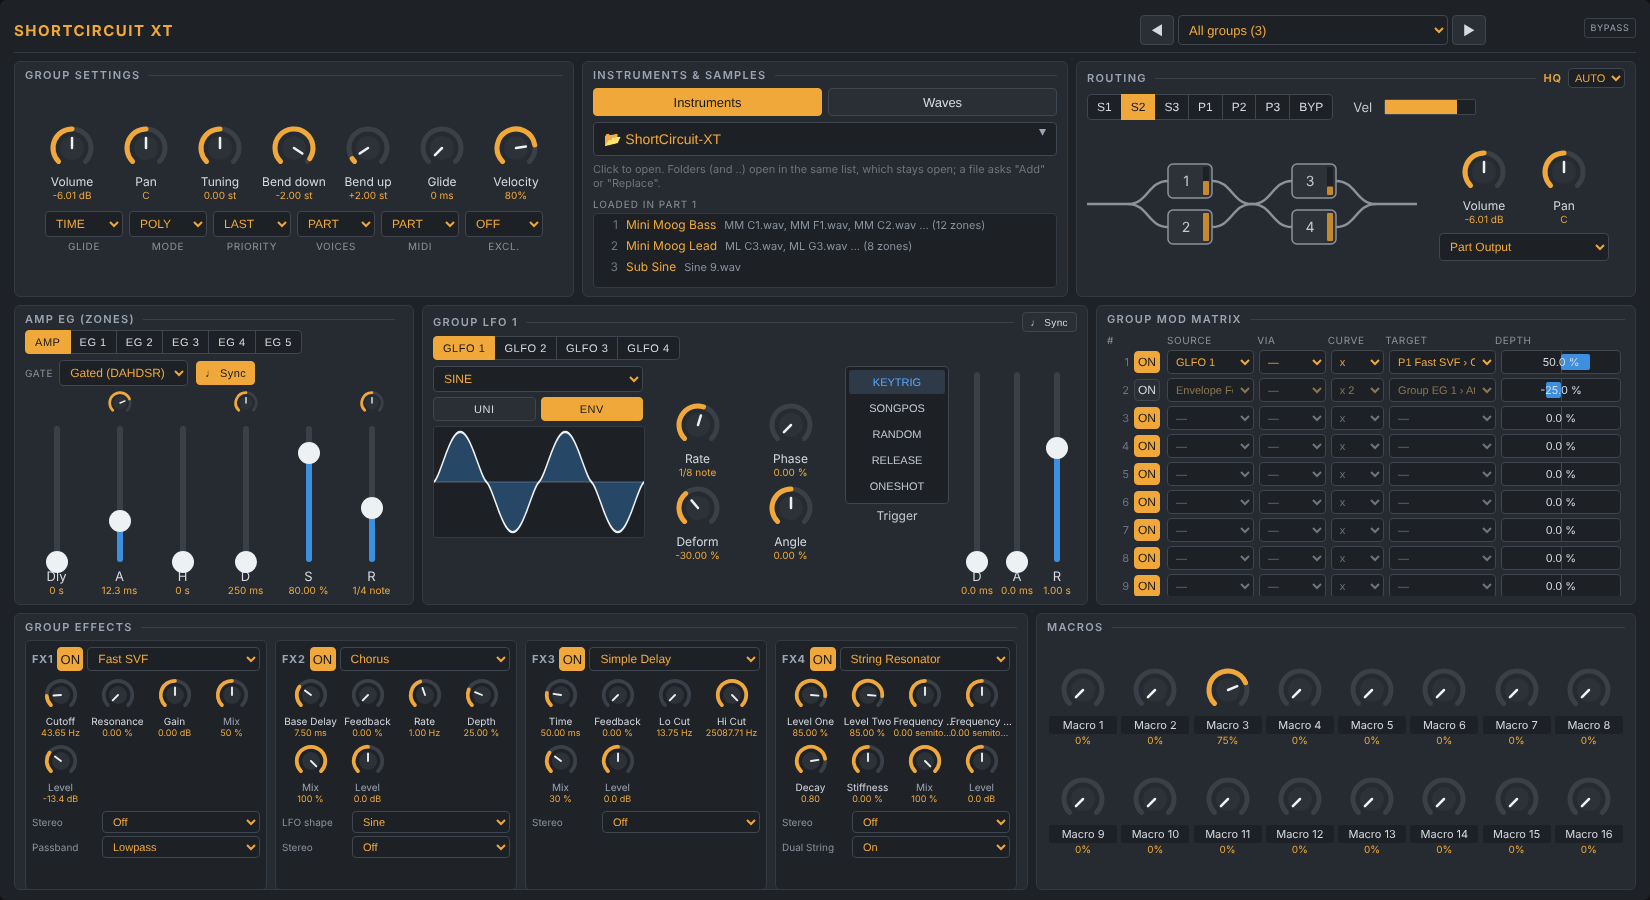
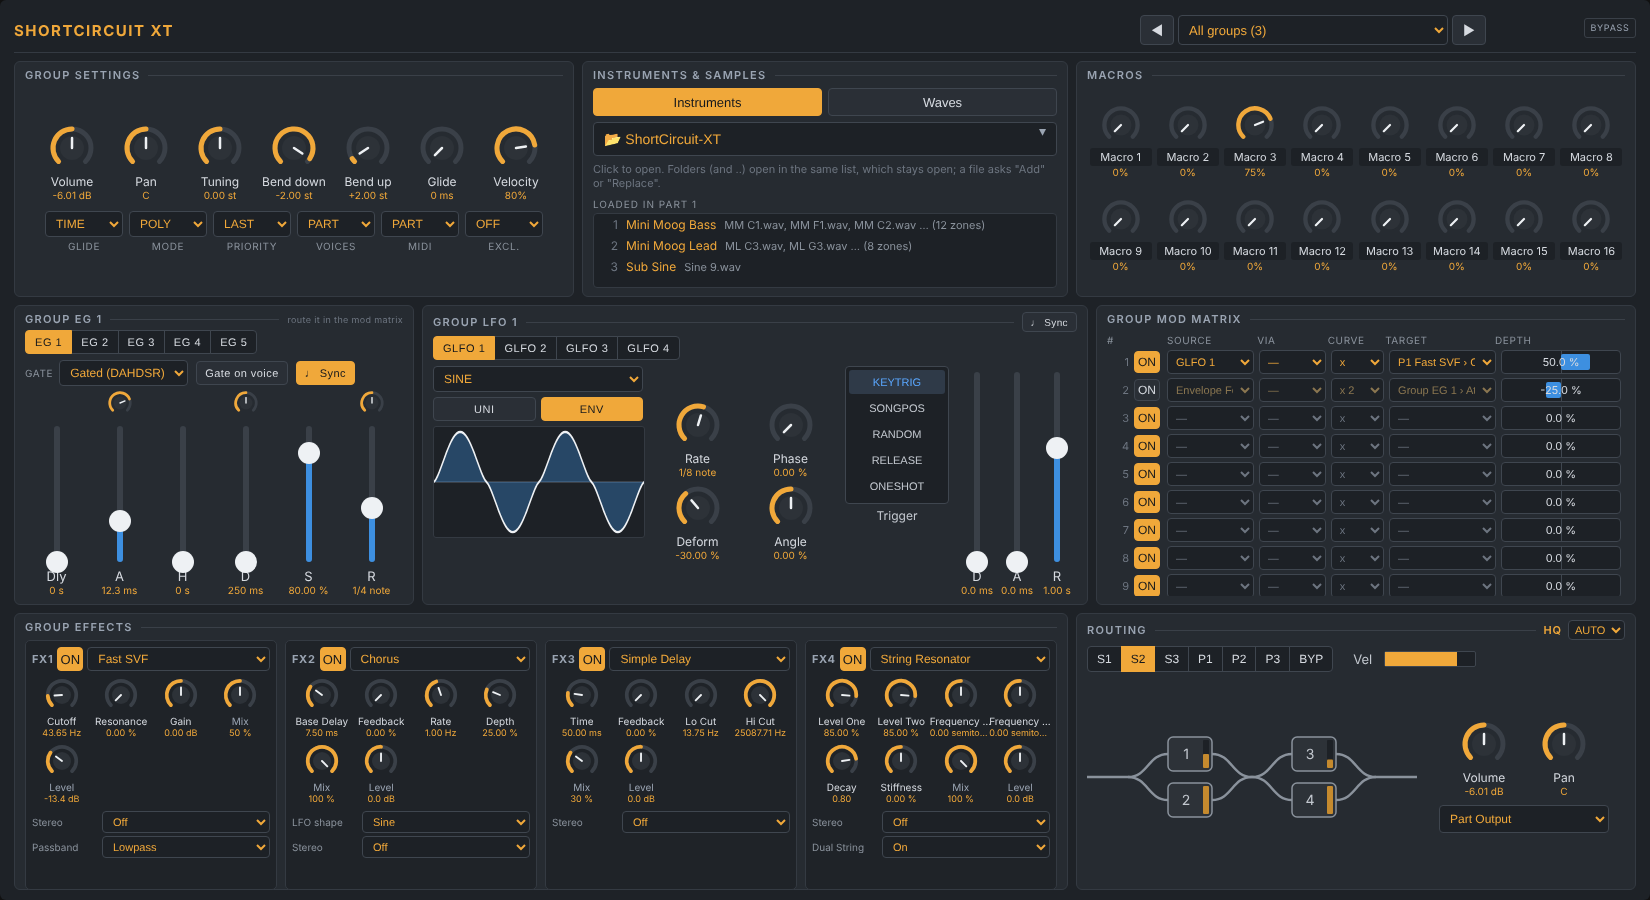
LV2 panel: group EG 1-5 only (no AMP tab), macros top right, routing bottom right
Claude-Session: https://claude.ai/code/session_01A7W9XgUHaLYGz3s89EjAsW

diff --git a/mod/modgui/javascript-shortcircuit-xt.js b/mod/modgui/javascript-shortcircuit-xt.js
@@ -418,25 +418,19 @@ function (event, funcs) {
     function buildEG(d, parent) {
         var card = el('div', 'scx-card scx-eg', parent);
         var h4 = el('h4', '', card, '');
-        d.egTitle = el('span', '', h4, 'Amp EG (zones)');
-        // AMP = the zones' amp envelope (what you hear); EG 1..5 = the group's envelopes, which
-        // only act through a mod matrix row
-        var tabs = makeSegment(d, card, {uri: U('eg_index'), cls: 'scx-tabs', def: -1,
-            options: [[-1, 'AMP', 'The amp envelope of every zone in the edited group(s)']].concat(
-                range(0, 4, function (i) { return 'EG ' + (i + 1); }).map(function (o) { return [o[0], o[1], 'Group EG: a modulation source, use it in the mod matrix']; }))});
-        tabs.onSet = function (v) {
-            d.egTitle.textContent = v < 0 ? 'Amp EG (zones)' : 'Group EG ' + (v + 1);
-            d.egHint.textContent = v < 0 ? '' : 'modulation source: route it in the mod matrix';
-            if (d.egGateAny) d.egGateAny.el.hidden = v < 0;
-        };
+        d.egTitle = el('span', '', h4, 'Group EG 1');
+        // group EGs 1..5, as in Shortcircuit's group view: modulation sources, heard through
+        // a mod matrix row (e.g. GEG1 -> Output Amplitude)
+        var tabs = makeSegment(d, card, {uri: U('eg_index'), cls: 'scx-tabs', def: 0,
+            options: range(0, 4, function (i) { return 'EG ' + (i + 1); }).map(function (o) { return [o[0], o[1], 'Group EG ' + (o[0] + 1) + ': route it in the mod matrix to hear it']; })});
+        tabs.onSet = function (v) { d.egTitle.textContent = 'Group EG ' + (Math.max(0, v) + 1); };
         bind(d, tabs.uri, tabs);
-        d.egHint = el('span', 'scx-eg-hint', h4, '');
+        d.egHint = el('span', 'scx-eg-hint', h4, 'route it in the mod matrix');
         var opts = el('div', 'scx-eg-opts', card);
         var gate = makeSelect(d, opts, {uri: U('eg_gate_mode'), label: 'Gate', min: 0, max: 2, def: 0, options: [[0, 'Gated (DAHDSR)'], [1, 'No sustain'], [2, 'Oneshot']]});
         bind(d, gate.uri, gate);
         hook(d, gate.uri, function (v) { if (d.egS) d.egS.lblEl.textContent = v >= 1 ? 'B' : 'S'; });
         d.egGateAny = bind(d, U('eg_gate_any'), makeToggle(d, opts, {uri: U('eg_gate_any'), label: 'Gate on voice', title: 'Gate on voice sounding'}));
-        d.egGateAny.el.hidden = true; // group EGs only
         bind(d, U('eg_temposync'), makeToggle(d, opts, {uri: U('eg_temposync'), label: '\u2669 Sync', title: 'Tempo sync the times'}));
         var sl = el('div', 'scx-sliders', card);
         var shapes = {1: 'eg_attack_shape', 3: 'eg_decay_shape', 5: 'eg_release_shape'};
@@ -903,9 +897,9 @@ function (event, funcs) {
         [prev, next].forEach(function (b) { b.addEventListener('mousedown', function (e) { e.stopPropagation(); }); });
 
         // wide layout, three rows:
-        //   group settings | browser | routing
+        //   group settings | browser | macros
         //   envelopes | group LFO | mod matrix
-        //   group effects | macros
+        //   group effects | routing
         var row1 = el('div', 'scx-row scx-row1', root);
         var row2 = el('div', 'scx-row scx-mods', root);
         var row3 = el('div', 'scx-row scx-row3', root);
@@ -950,16 +944,16 @@ function (event, funcs) {
         el('div', 'scx-empty', d.loadedBox, 'Nothing loaded in part 1 yet.');
         d.entries = [];
         fillBrowser(d);
-        buildRouting(d, row1);
+        // macros (control ports p0..p15)
+        var mc = el('div', 'scx-card scx-macros', row1);
 
         buildEG(d, row2);
         buildLFO(d, row2);
         buildMatrix(d, row2);
 
         buildFx(d, row3);
+        buildRouting(d, row3);
 
-        // macros (control ports p0..p15)
-        var mc = el('div', 'scx-card scx-macros', row3);
         el('h4', '', mc, 'Macros');
         var grid = el('div', 'scx-grid', mc);
         for (var m = 0; m < 16; m++) {

diff --git a/mod/modgui/stylesheet-shortcircuit-xt.css b/mod/modgui/stylesheet-shortcircuit-xt.css
@@ -235,10 +235,11 @@
 .scxt .scx-matrix { width: 600px; flex: none; display: flex; flex-direction: column; }
 .scxt .scx-fx { flex: 1; min-width: 0; }
 .scxt .scx-fx-slot { min-height: 0; height: 236px; }
-.scxt .scx-macros { width: 600px; flex: none; display: flex; flex-direction: column; }
+.scxt .scx-macros { width: 560px; flex: none; display: flex; flex-direction: column; }
 .scxt .scx-macros .scx-grid { flex: 1; align-content: space-evenly; }
-.scxt .scx-macros .scx-knob { width: 72px; }
-.scxt .scx-macros .scx-knob .scx-lbl { width: 68px; max-width: 68px; font-size: 11px; }
+.scxt .scx-macros .scx-knob { width: 66px; }
+.scxt .scx-macros .scx-knob svg { width: 42px; height: 42px; }
+.scxt .scx-macros .scx-knob .scx-lbl { width: 62px; max-width: 62px; font-size: 11px; }
 .scxt .scx-mods .scx-eg { width: 400px; }
 .scxt .scx-mods .scx-matrix { width: 540px; }
 .scxt .scx-mods .scx-lfo-left { width: 210px; }

diff --git a/src/clients/lv2/scxt_bridge.cpp b/src/clients/lv2/scxt_bridge.cpp
@@ -194,7 +194,7 @@ struct Bridge::Impl
     int group{0};          // the group shown (with allGroups: the lead, group 1)
     bool allGroups{true};  // edits go to every group of part 1 (the panel's "All groups")
     int loadMode{0};
-    int egIndex{-1}, lfoIndex{0}; // egIndex -1: the zones' amp EG
+    int egIndex{0}, lfoIndex{0}; // group EG 1..5 (-1, the zones' amp EG, is no longer offered)
     // the EG as last edited here (see rowShadow): a gate mode change sends the whole EG
     AdsrStorage egShadow{};
     int egShadowGroup{-1}, egShadowIndex{-1};
@@ -938,8 +938,8 @@ struct Bridge::Impl
             loadMode = iv;
             return;
         case P_EG_INDEX:
-            // -1: the amp envelope (AEG) of the zones; 0..4: group EG 1..5
-            egIndex = std::clamp(iv, -1, (int)scxt::egsPerGroup - 1);
+            // 0..4: group EG 1..5 (as in Shortcircuit's group view)
+            egIndex = std::clamp(iv, 0, (int)scxt::egsPerGroup - 1);
             wantAll = true;
             return;
         case P_LFO_INDEX:

diff --git a/src/clients/lv2/scxt_params.h b/src/clients/lv2/scxt_params.h
@@ -135,7 +135,7 @@ inline const ParamDef paramDefs[P_NUM] = {
     {"group_proc_routing", "Effect routing", 0, 6, 0, true, true},
     {"group_route_to", "Output", -1, 20, -1, true, true},
     {"group_oversample", "Oversample", 0, 2, 1, true, true},
-    {"eg_index", "EG (-1 = zones amp EG)", -1, 4, -1, true, true},
+    {"eg_index", "Group EG (0..4 = EG 1..5)", 0, 4, 0, true, true},
     {"eg1_delay", "Dly", 0, 1, 0, true, false},
     {"eg1_attack", "A", 0, 1, 0, true, false},
     {"eg1_hold", "H", 0, 1, 0, true, false},

diff --git a/MY_CHANGES.md b/MY_CHANGES.md
@@ -44,8 +44,8 @@ The plugin has:
 ### The MOD panel (pi-Stomp)
 
 The bundle includes a panel for MOD-UI. It is wide and low (1650 × 900) to suit a wide screen,
-with three rows: group settings | browser | routing, then envelopes | group LFO | mod matrix,
-then group effects | macros. The parts:
+with three rows: group settings | browser | macros, then group EG | group LFO | mod matrix,
+then group effects | routing. The parts:
 
 - **Group selector** (◀ list ▶): **All groups** (the default: every edit goes to all groups of
   part 1, like a multi-selection in Shortcircuit; the panel shows group 1's values) or one
@@ -66,12 +66,10 @@ then group effects | macros. The parts:
 - **Routing** (as in Shortcircuit): S1 S2 S3 P1 P2 P3 BYP with a drawing of the 4 effect
   blocks (their mix as a bar, grey when empty or off), Vel (velocity sensitivity), Volume,
   Pan, output (Part Output, Main, Bus 1–16, Aux 1–4) and HQ (oversampling off / auto / on).
-- **Envelopes:** tabs **AMP** and **EG 1–5**. AMP is the amp envelope of every zone in the
-  edited group(s): that is the one you hear. EG 1–5 are the group's envelopes, which are
-  modulation sources: they only change the sound through a mod matrix row (e.g.
-  "Group EG 1 → Output › Amplitude"). Each has Dly A H D S R sliders, shape knobs above A, D
-  and R, gate mode (gated / no sustain / oneshot), tempo sync (times then show as note lengths)
-  and, for the group EGs, "gate on voice".
+- **Group EG 1–5**, as in Shortcircuit's group view. They are modulation sources: they only
+  change the sound through a mod matrix row (e.g. "Group EG 1 → Output › Amplitude"). Each has
+  Dly A H D S R sliders, shape knobs above A, D and R, gate mode (gated / no sustain /
+  oneshot), tempo sync (times then show as note lengths) and "gate on voice".
 - **Group LFO 1–4:** shape (sine, ramp, tri, saw-ramp, square-tri, noise, S&H, env, step) with
   a picture, UNI, ENV (delay/attack/release envelope, sliders D A R), Rate, Phase, Deform,
   Angle, tempo sync and the trigger (keytrig, songpos, random, release, oneshot). The ENV shape
